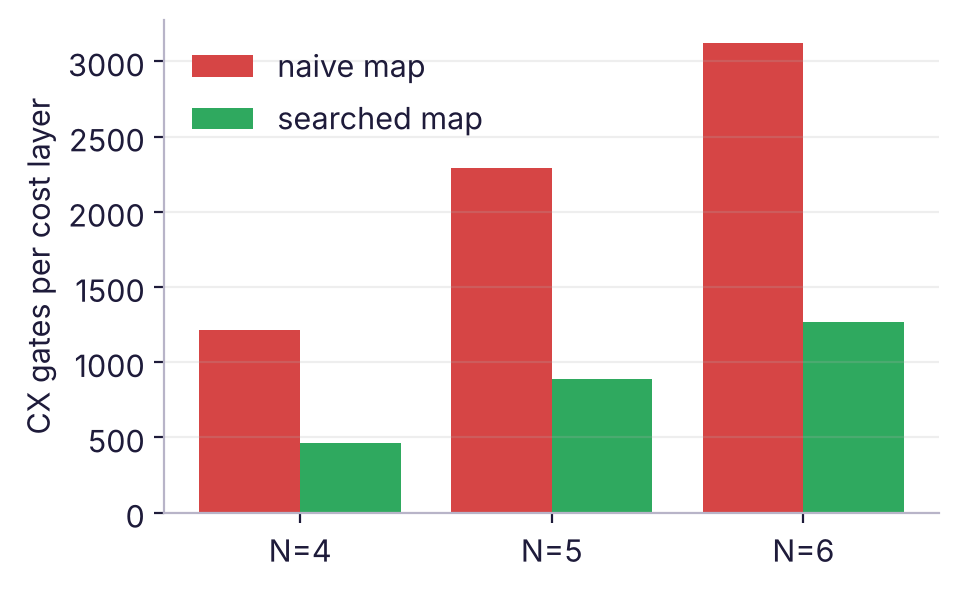
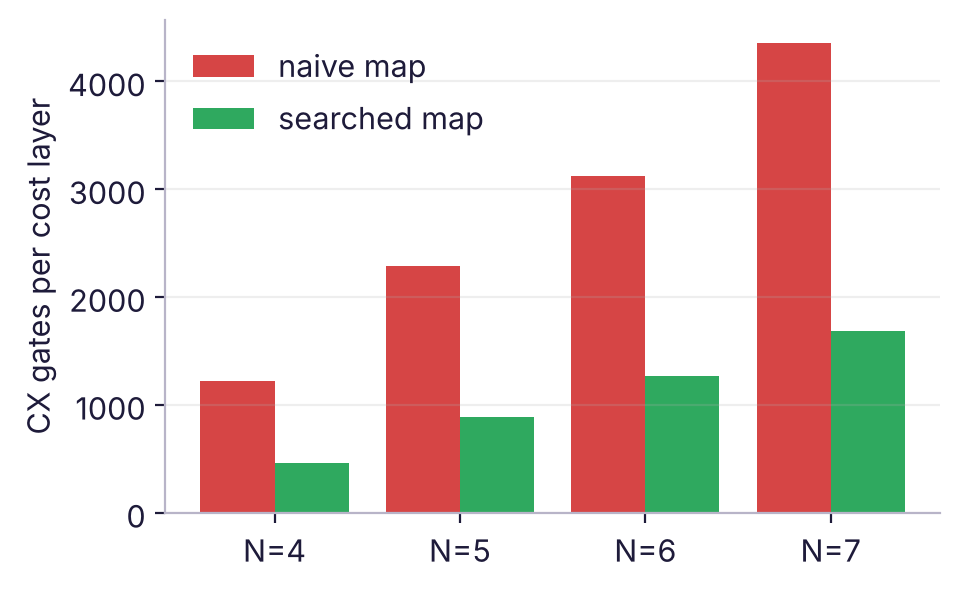
Add files via upload

diff --git a/src/build_slides.js b/src/build_slides.js
@@ -5,6 +5,8 @@ const { applyTheme } = require("/root/.claude/skills/synced/6ab231db-ae75-468a-8
 
 const R = JSON.parse(fs.readFileSync("results/bonus.json", "utf8"));
 const four = R.find((r) => r.n === 4);
+const SV1_MEASURED = 884, SV1_SHOTS = 2000;   // the AWS SV1 job in README.md
+const sv1 = SV1_MEASURED / SV1_SHOTS;
 const pct = (x, d = 1) => (100 * x).toFixed(d) + "%";
 
 const THEME = {
@@ -97,8 +99,8 @@ let s = pres.addSlide({ masterName: "DARK", sectionTitle: "Opening" });
 motif(s, 0.9, 1.75, 0.3, 0.12);
 s.addText("Instant Insanity on 12 qubits", { placeholder: "title" });
 s.addText(
-  [{ text: "Half the qubits, no penalty terms, and a " + pct(four.p_solved, 0) +
-      " hit rate against a " + (100 * four.baseline).toFixed(3) + "% random baseline.",
+  [{ text: "Half the qubits, no penalty terms, and a " + pct(sv1, 0) +
+      " hit rate on AWS SV1 against a " + (100 * four.baseline).toFixed(3) + "% random baseline.",
     options: { breakLine: true } },
    { text: "Daksh Goswami  ·  Rueben  ·  Ishal",
     options: { fontSize: 14, color: "FFFFFF", breakLine: true } },
@@ -259,7 +261,9 @@ const rows = [[
   { text: "Lift", options: { bold: true } }]];
 R.forEach((r) => rows.push([
   String(r.n), String(r.qubits), String(r.cx_per_layer), String(r.best_p),
-  pct(r.p_solved, 2), (100 * r.baseline).toFixed(4) + "%", "×" + Math.round(r.lift)]));
+  r.n === 4 ? pct(sv1, 2) : pct(r.p_solved, 2),
+  (100 * r.baseline).toFixed(4) + "%",
+  "×" + Math.round((r.n === 4 ? sv1 : r.p_solved) / r.baseline)]));
 s.addTable(rows, {
   x: 0.75, y: 1.45, w: 6.1, colW: [0.5, 0.8, 1.0, 0.45, 1.2, 1.2, 0.95],
   fontSize: 12, color: THEME.colors.dk1, border: { type: "solid", color: "DDDAE8", pt: 1 },
@@ -268,7 +272,10 @@ s.addTable(rows, {
 });
 s.addImage({ path: "figures/scaling.png", x: 7.1, y: 1.45, w: 5.4, h: 3.2 });
 s.addText([
-  { text: "The lift over random grows with N — but the absolute success rate falls, because " +
+  { text: "N = 4 ran on AWS SV1: " + SV1_MEASURED + " of " + SV1_SHOTS + " shots = " +
+      pct(sv1, 2) + " measured, against " + pct(four.p_solved, 2) +
+      " predicted. Inside sampling error.", options: { bold: true, breakLine: true } },
+  { text: "The lift over random grows with N, but the absolute success rate falls, because " +
       "the solution fraction shrinks faster than the algorithm gains. ",
     options: { breakLine: false } },
   { text: "We report both, not only the flattering one.", options: { bold: true } }],

diff --git a/src/build_readme.py b/src/build_readme.py
@@ -9,8 +9,9 @@ SEEDS = {5: 16, 6: 86, 7: 68}   # the starter's own seeds, from puzzle.BONUS
 
 # The SV1 job behind the N=4 row. Printed by the submission cell in solution.ipynb.
 SV1_JOB_ID = "aws:aws:sim:sv1-0f30-qjob-6ad3893538127b44c71b9b8b"
-# Shots that decoded to a solved tower on SV1, out of 2000. Set once the job returns.
-SV1_MEASURED = None
+# Shots that decoded to a solved tower on SV1, out of 2000.
+SV1_MEASURED = 884
+SV1_SHOTS = 2000
 
 rows = []
 for r in R:
@@ -84,8 +85,15 @@ Two-qubit gates and depth are counted after
 P(correct tower) is the fraction of shots that decode to a tower accepted by the
 **starter notebook's own `solves()`**, not merely a low energy.
 
-**On the four-cube puzzle: {four['p_solved']:.1%} against a {four['baseline']:.3%}
-random-guess baseline, a {four['lift']:.0f}x lift.**
+**On the four-cube puzzle, measured on AWS SV1: {SV1_MEASURED}/{SV1_SHOTS} shots =
+{SV1_MEASURED / SV1_SHOTS:.2%} against a {four['baseline']:.3%} random-guess baseline,
+a {(SV1_MEASURED / SV1_SHOTS) / four['baseline']:.0f}x lift.**
+
+The exact statevector predicted {four['p_solved']:.2%} for the same circuit. The measured
+{SV1_MEASURED / SV1_SHOTS:.2%} sits {abs(SV1_MEASURED / SV1_SHOTS - four['p_solved']) / ((four['p_solved'] * (1 - four['p_solved']) / SV1_SHOTS) ** 0.5):.1f} standard errors away
+(1 s.e. = {((four['p_solved'] * (1 - four['p_solved']) / SV1_SHOTS) ** 0.5):.2%} at {SV1_SHOTS} shots), so the circuit that actually ran on
+SV1 — transpiled, with a marker qubit, decoded from counts — behaves as the model says.
+That agreement is the end-to-end check on the whole pipeline, not just the maths.
 
 ### Scaling with N
 
